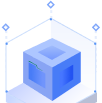
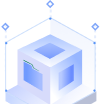
UI: #9271 设备管理 仪表盘部分图片更改，样式微调

diff --git a/src/pages/device/DashBoard/index.tsx b/src/pages/device/DashBoard/index.tsx
@@ -130,8 +130,9 @@ const DeviceBoard = () => {
             name: '在线数',
             data: y.reverse(),
             type: 'bar',
+            showBackground: true,
             itemStyle: {
-              color: '#2F54EB',
+              color: '#D3ADF7',
             },
           },
         ],
@@ -214,8 +215,9 @@ const DeviceBoard = () => {
             name: '消息量',
             data: y,
             type: 'line',
-            smooth: true,
-            color: '#685DEB',
+            smooth: true, // 是否平滑曲线
+            symbolSize: 0, // 拐点大小
+            color: '#F29B55',
             areaStyle: {
               color: {
                 type: 'linear',
@@ -226,7 +228,7 @@ const DeviceBoard = () => {
                 colorStops: [
                   {
                     offset: 0,
-                    color: '#685DEB', // 100% 处的颜色
+                    color: '#FBBB87', // 100% 处的颜色
                   },
                   {
                     offset: 1,
@@ -285,6 +287,9 @@ const DeviceBoard = () => {
         .map((item: any) => (_time === '1h' ? `${item.data.timeString}时` : item.data.timeString))
         .reverse();
       const y = res.result.map((item: any) => item.data.value).reverse();
+      const maxY = Math.max.apply(null, y.length ? y : [0]);
+      // const sum = y.reduce((acc, cur) => acc + cur, 0)
+      // const percentageY = y.map(item => parseFloat(((item / sum) * 100).toFixed(2)));
       setOptions({
         xAxis: {
           type: 'category',
@@ -296,43 +301,53 @@ const DeviceBoard = () => {
         },
         tooltip: {
           trigger: 'axis',
-          // axisPointer: {
-          //   type: 'shadow',
-          // },
+          formatter: '{b0}<br />{a0}: {c0}',
+          // formatter: '{b0}<br />{a0}: {c0}<br />{a1}: {c1}%'
         },
         grid: {
           top: '2%',
           bottom: '5%',
-          left: '50px',
+          left: maxY > 100000 ? '90px' : '50px',
           right: '50px',
         },
         series: [
           {
             name: '消息量',
             data: y,
+            type: 'bar',
+            // type: 'line',
+            // smooth: true,
+            color: '#597EF7',
+            barWidth: '30%',
+            // areaStyle: {
+            //   color: {
+            //     type: 'linear',
+            //     x: 0,
+            //     y: 0,
+            //     x2: 0,
+            //     y2: 1,
+            //     colorStops: [
+            //       {
+            //         offset: 0,
+            //         color: '#685DEB', // 100% 处的颜色
+            //       },
+            //       {
+            //         offset: 1,
+            //         color: '#FFFFFF', //   0% 处的颜色
+            //       },
+            //     ],
+            //     global: false, // 缺省为 false
+            //   },
+            // },
+          },
+          {
+            name: '占比',
+            data: y,
+            // data: percentageY,
             type: 'line',
             smooth: true,
-            color: '#685DEB',
-            areaStyle: {
-              color: {
-                type: 'linear',
-                x: 0,
-                y: 0,
-                x2: 0,
-                y2: 1,
-                colorStops: [
-                  {
-                    offset: 0,
-                    color: '#685DEB', // 100% 处的颜色
-                  },
-                  {
-                    offset: 1,
-                    color: '#FFFFFF', //   0% 处的颜色
-                  },
-                ],
-                global: false, // 缺省为 false
-              },
-            },
+            symbolSize: 0, // 拐点大小
+            color: '#96ECE3',
           },
         ],
       });
